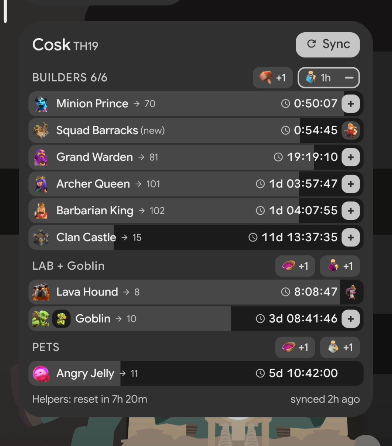
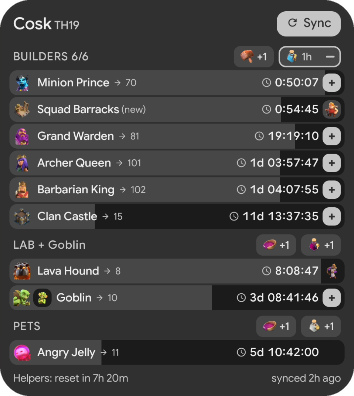
README: cleaner screenshots (cropped to the widget, rounded) in a 3-column table
Claude-Session: https://claude.ai/code/session_019ycT3a3WfnTe7vmBV8a7Y9

diff --git a/README.md b/README.md
@@ -10,19 +10,28 @@ A Material You home screen widget for Android that shows your Clash of Clans bui
 
 ## Screenshots
 
-<p align="center">
-  <img src="docs/screenshots/widget.png" alt="The widget with builders, the lab with the Goblin Researcher and the pet house" width="300">
-  &nbsp;
-  <img src="docs/screenshots/widget-potion.png" alt="The same widget with a Builder Potion running: the potion button shows the time left and the countdowns are shorter" width="300">
-</p>
-
-<p align="center">
-  <img src="docs/screenshots/second-account.png" alt="A second account on its own widget, with its own name" width="300">
-  &nbsp;
-  <img src="docs/screenshots/full-size.png" alt="The full-size widget with every section and the helper reset time in the footer" width="300">
-  &nbsp;
-  <img src="docs/screenshots/builder-base.png" alt="The Builder Base widget: builders, Star Laboratory and Clock Tower" width="300">
-</p>
+<table>
+  <tr>
+    <td width="33%"><img src="docs/screenshots/widget.png" alt="The widget with builders, the lab with the Goblin Researcher and the pet house" width="100%"></td>
+    <td width="33%"><img src="docs/screenshots/widget-potion.png" alt="The same widget with a Builder Potion running: the potion button shows the time left and the countdowns are shorter" width="100%"></td>
+    <td width="33%"><img src="docs/screenshots/second-account.png" alt="A second account on its own widget, with its own name" width="100%"></td>
+  </tr>
+  <tr>
+    <td align="center">Widget</td>
+    <td align="center">With a Builder Potion running</td>
+    <td align="center">A second account</td>
+  </tr>
+  <tr>
+    <td width="33%" valign="top"><img src="docs/screenshots/full-size.png" alt="The full-size widget with every section and the helper reset time in the footer" width="100%"></td>
+    <td width="33%" valign="top"><img src="docs/screenshots/builder-base.png" alt="The Builder Base widget: builders, Star Laboratory and Clock Tower" width="100%"></td>
+    <td></td>
+  </tr>
+  <tr>
+    <td align="center">Full size</td>
+    <td align="center">Builder Base</td>
+    <td></td>
+  </tr>
+</table>
 
 ## Features
 
